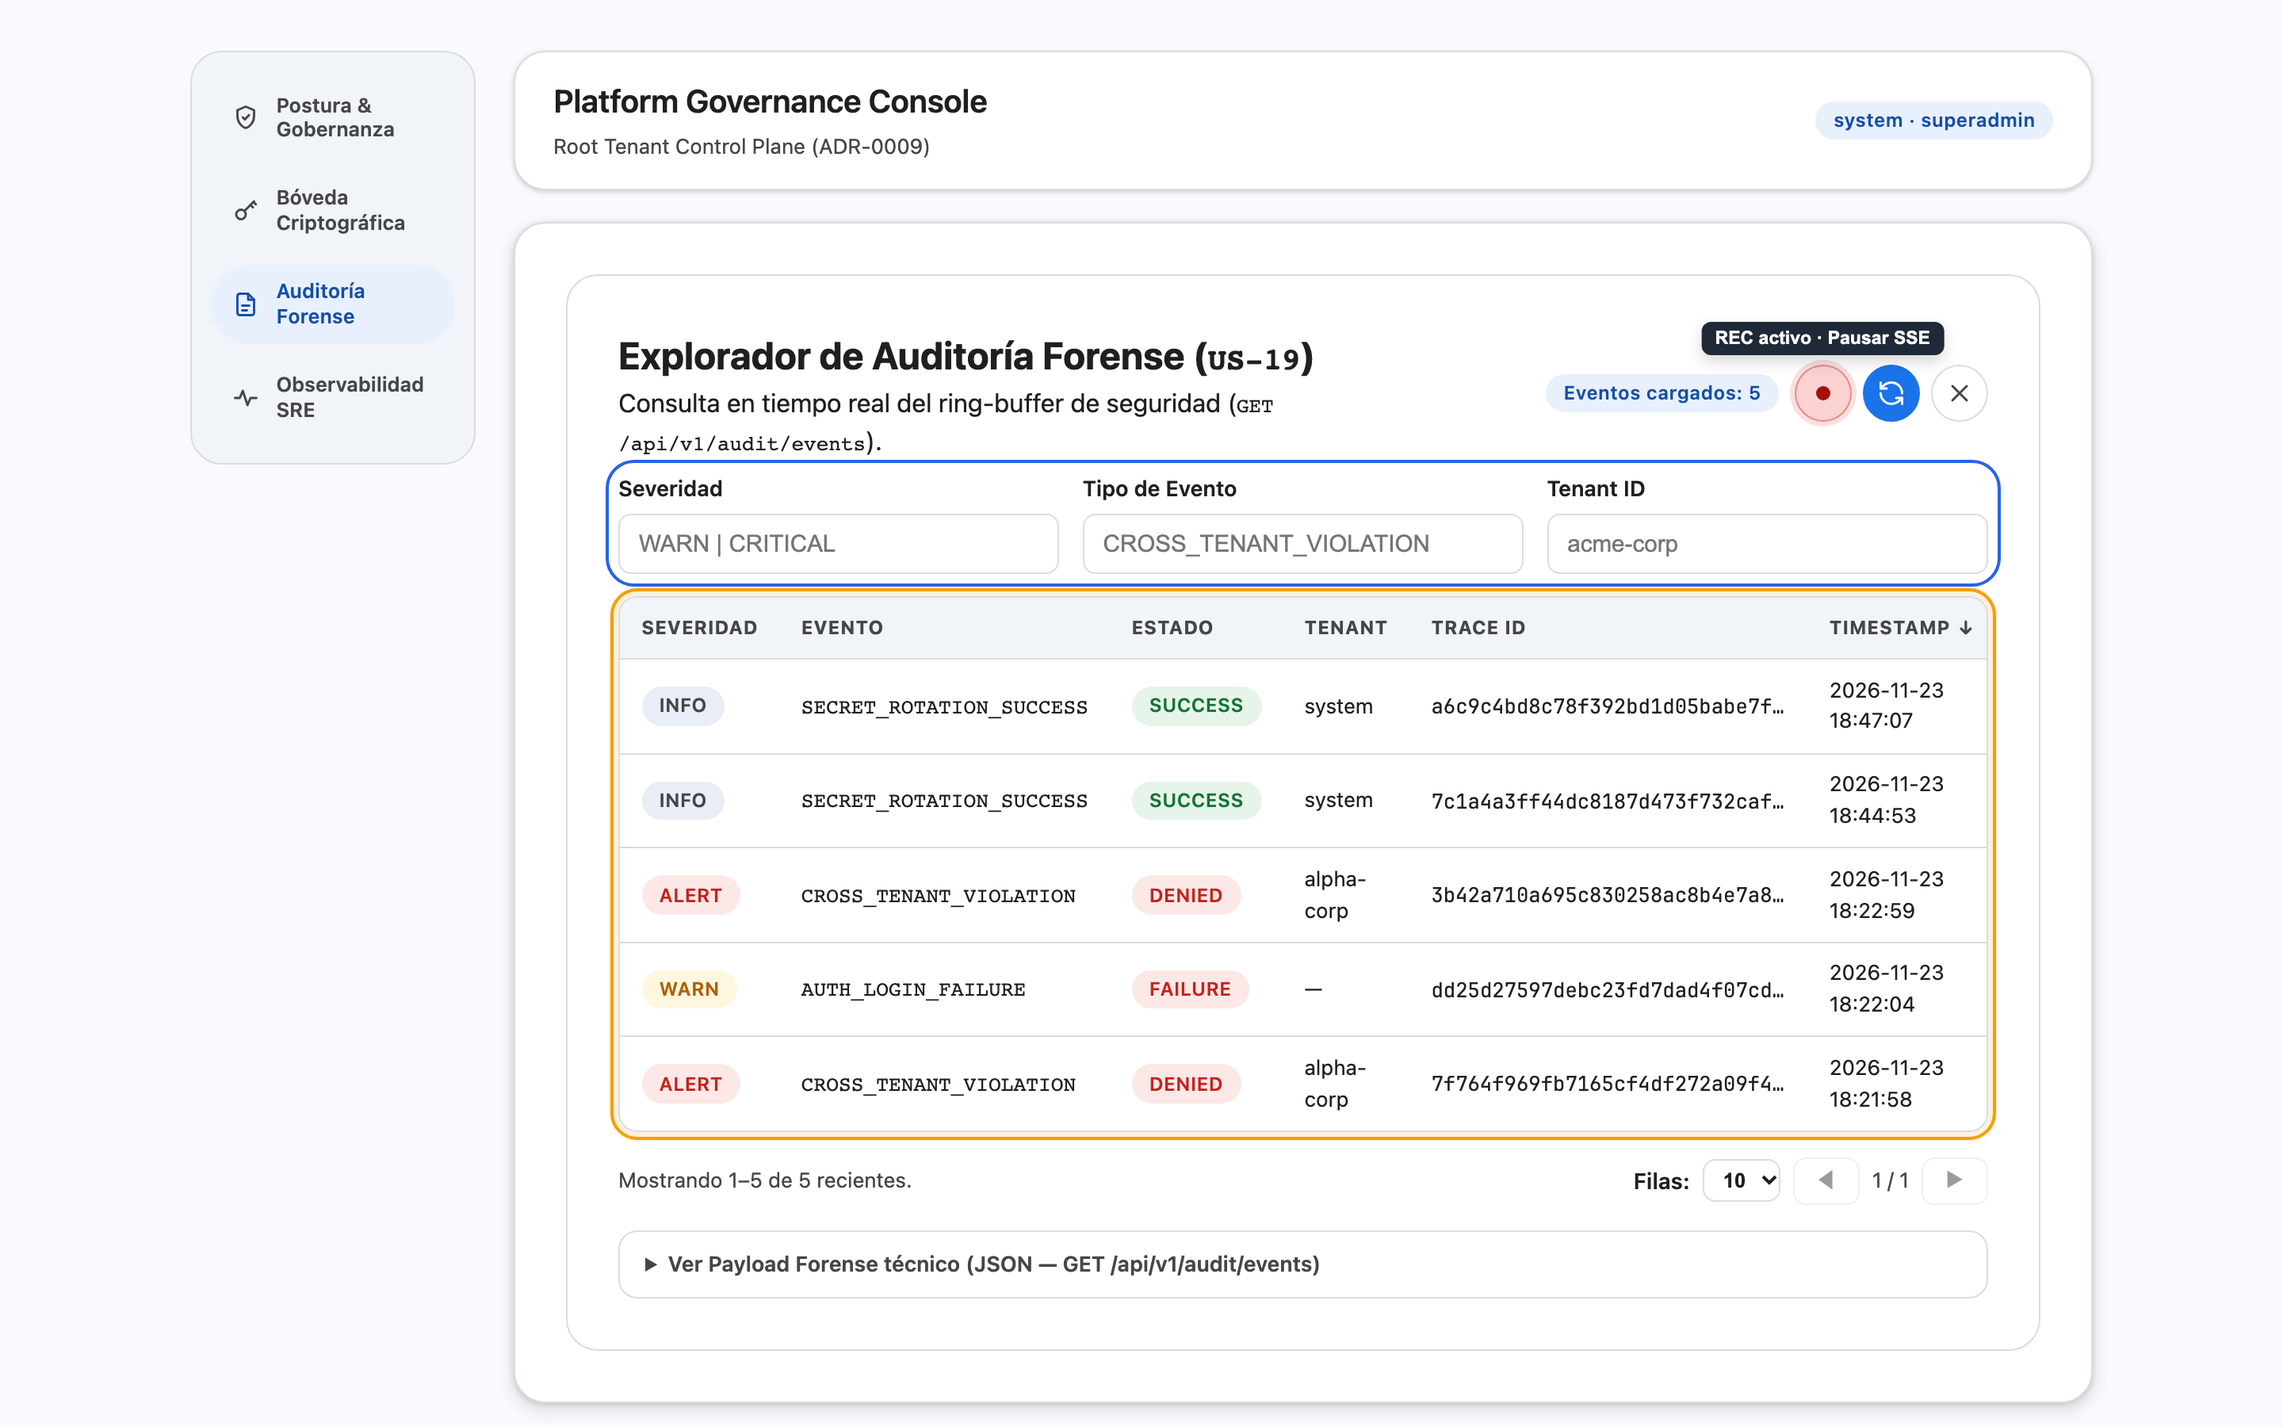
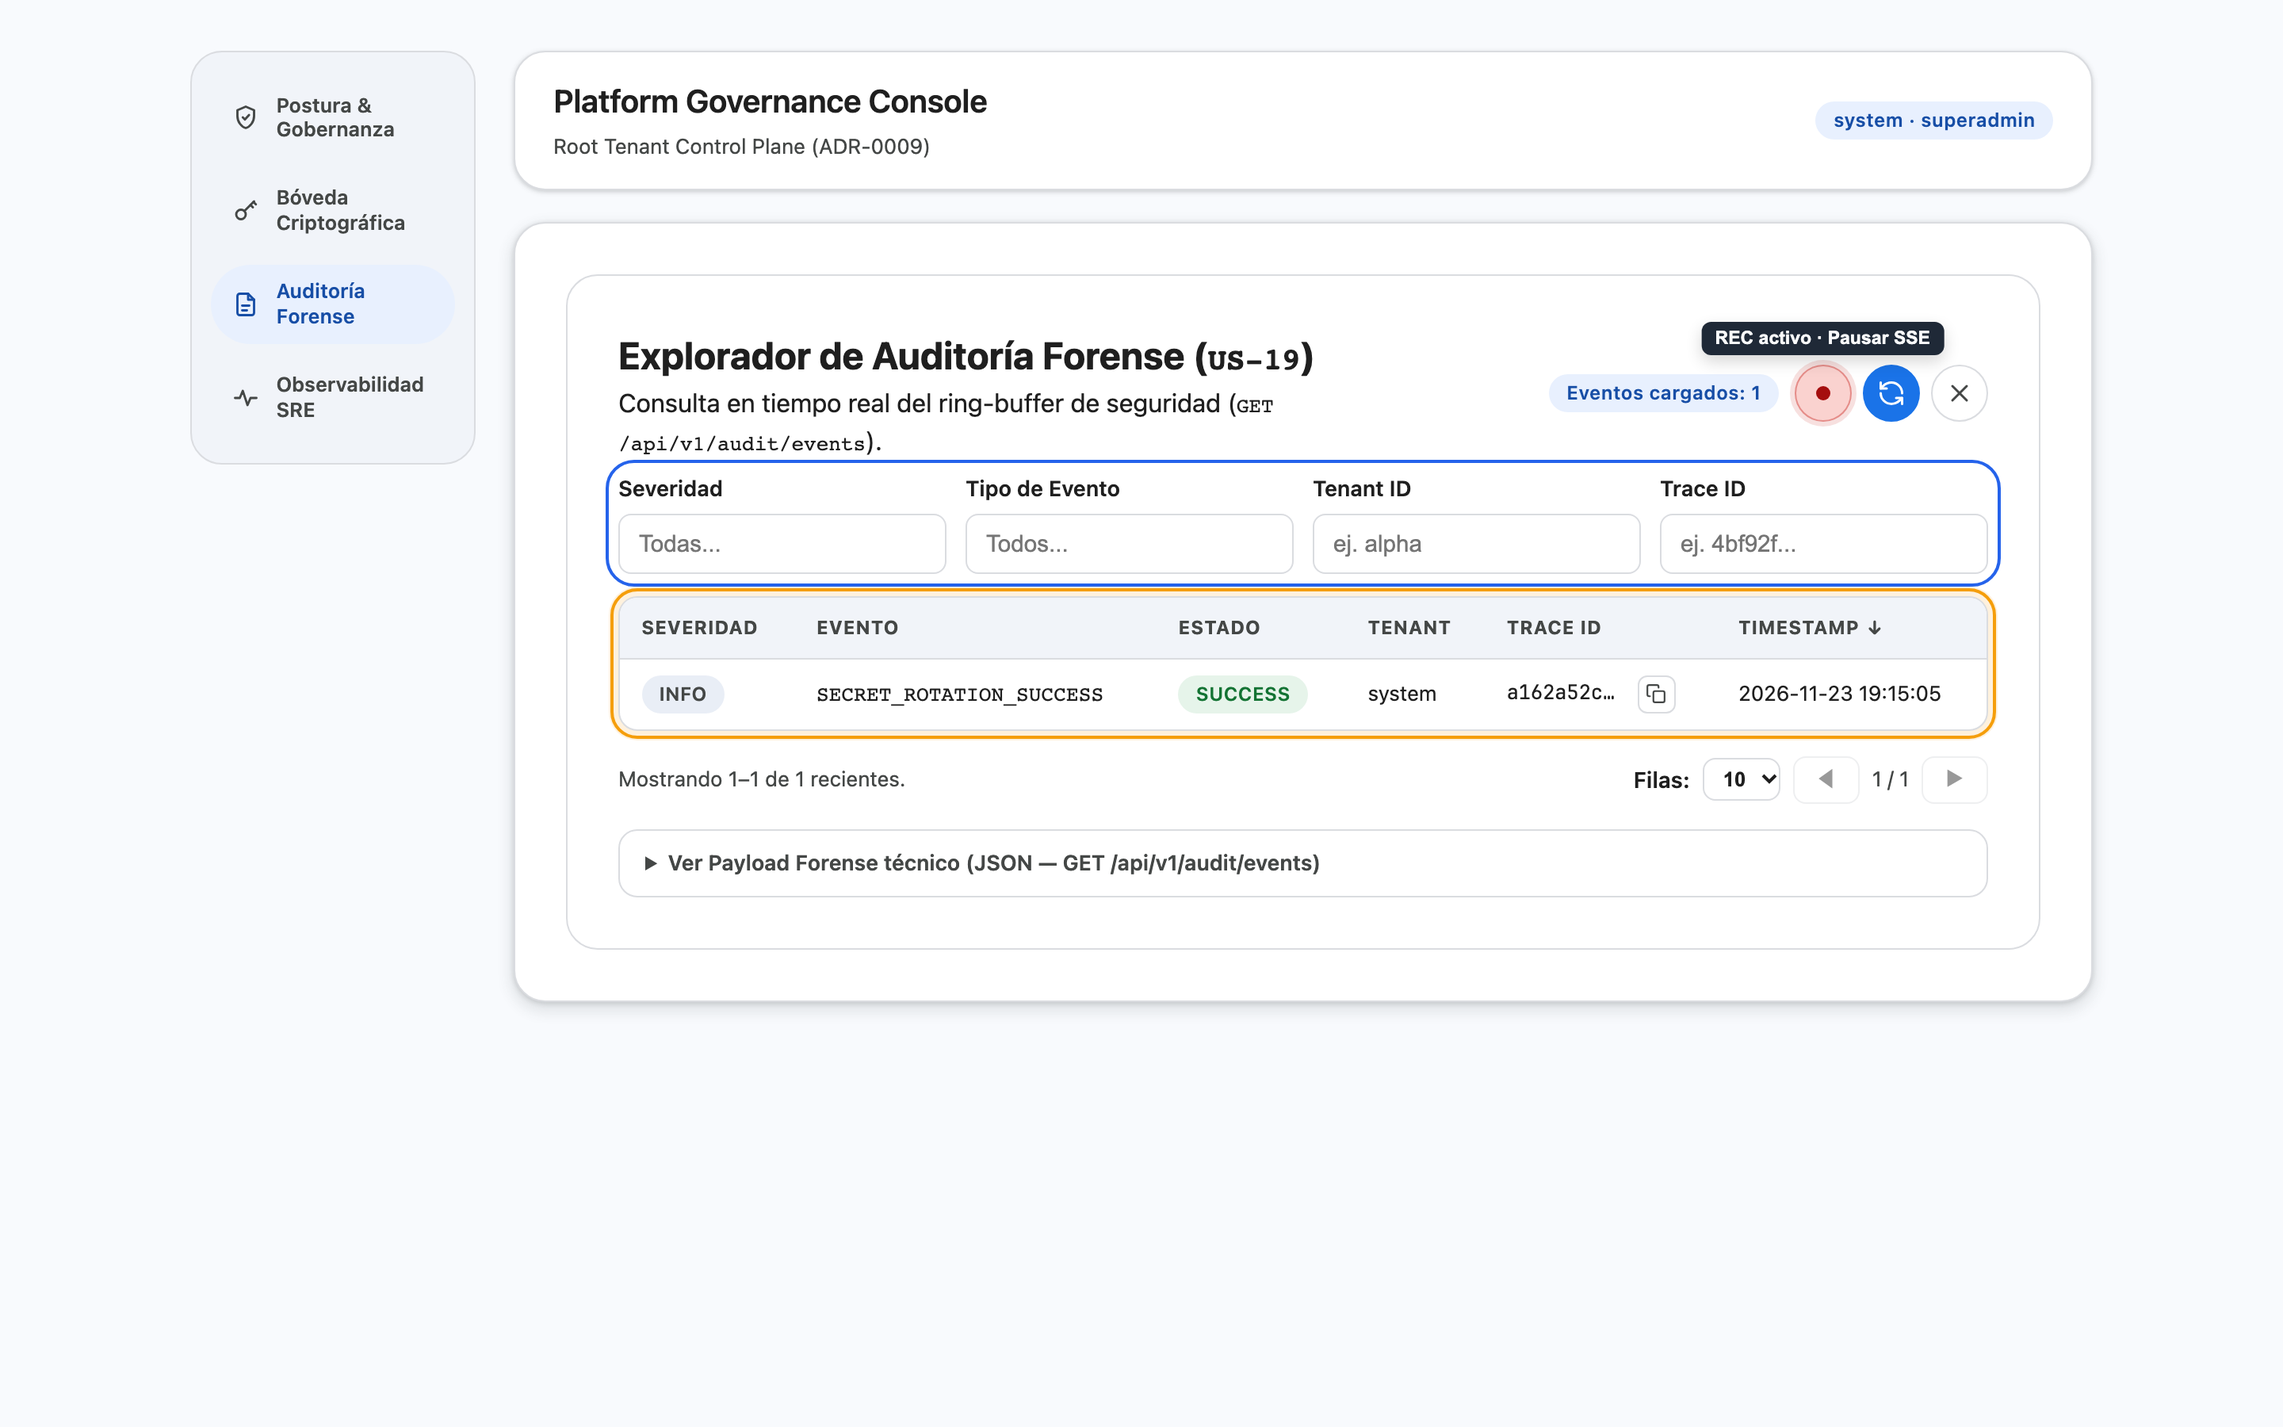
feat(audit,ui): add partial case-insensitive filters, traceId filter, autocomplete and copy button

diff --git a/interfaces/web/client/contexts/platform/ui/AuditExplorerPanel.tsx b/interfaces/web/client/contexts/platform/ui/AuditExplorerPanel.tsx
@@ -32,6 +32,23 @@ export interface AuditExplorerPanelProps {
 
 const PAGE_SIZE_OPTIONS = [5, 10, 20, 30, 50] as const;
 
+const KNOWN_SEVERITIES = ['INFO', 'WARN', 'ERROR', 'ALERT', 'CRITICAL'] as const;
+
+const KNOWN_EVENT_TYPES = [
+  'AUTH_LOGIN_SUCCESS',
+  'AUTH_LOGIN_FAILURE',
+  'TOKEN_ISSUED',
+  'TOKEN_REVOKED',
+  'REFRESH_ROTATED',
+  'CROSS_TENANT_VIOLATION',
+  'CLIENT_ORIGIN_DENIED',
+  'SECRET_ROTATION_SUCCESS',
+  'SECRET_ROTATION_FAILURE',
+  'FEDERATION_CALLBACK_PROCESSED',
+  'FEDERATION_CALLBACK_FAILED',
+  'PLATFORM_OPERATOR_CROSS_TENANT_ACTION',
+] as const;
+
 /**
  * Explorador Forense de Auditoría Estructurada (US-19 & ADR-0009).
  */
@@ -39,16 +56,19 @@ export function AuditExplorerPanel({ session }: AuditExplorerPanelProps) {
   const [severityFilter, setSeverityFilter] = useState<string>('');
   const [eventTypeFilter, setEventTypeFilter] = useState<string>('');
   const [tenantFilter, setTenantFilter] = useState<string>('');
+  const [traceIdFilter, setTraceIdFilter] = useState<string>('');
   const [debouncedFilters, setDebouncedFilters] = useState({
     severity: '',
     eventType: '',
     tenant: '',
+    traceId: '',
   });
   const [events, setEvents] = useState<readonly AuditEventRecord[]>([]);
   const [liveStream, setLiveStream] = useState<boolean>(false);
   const [sortOrder, setSortOrder] = useState<'desc' | 'asc'>('desc');
   const [pageSize, setPageSize] = useState<number>(10);
   const [currentPage, setCurrentPage] = useState<number>(1);
+  const [copiedTraceId, setCopiedTraceId] = useState<string | null>(null);
   const [error, setError] = useState<string | null>(null);
   const [loading, setLoading] = useState<boolean>(false);
   const didMountRef = useRef<boolean>(false);
@@ -57,14 +77,17 @@ export function AuditExplorerPanel({ session }: AuditExplorerPanelProps) {
     tenant?: string;
     severity?: string;
     eventType?: string;
+    traceId?: string;
   }) => {
     const t = (overrides?.tenant ?? tenantFilter).trim();
     const s = (overrides?.severity ?? severityFilter).trim();
     const et = (overrides?.eventType ?? eventTypeFilter).trim();
+    const tr = (overrides?.traceId ?? traceIdFilter).trim();
     const params = new URLSearchParams();
     if (t) params.set('tenantId', t);
     if (s) params.set('severity', s.toUpperCase());
     if (et) params.set('eventType', et.toUpperCase());
+    if (tr) params.set('traceId', tr);
     return params;
   };
 
@@ -72,6 +95,7 @@ export function AuditExplorerPanel({ session }: AuditExplorerPanelProps) {
     tenant?: string;
     severity?: string;
     eventType?: string;
+    traceId?: string;
   }): Promise<boolean> => {
     setLoading(true);
     setError(null);
@@ -108,8 +132,23 @@ export function AuditExplorerPanel({ session }: AuditExplorerPanelProps) {
     setSeverityFilter('');
     setEventTypeFilter('');
     setTenantFilter('');
-    setDebouncedFilters({ severity: '', eventType: '', tenant: '' });
-    void searchEvents({ tenant: '', severity: '', eventType: '' });
+    setTraceIdFilter('');
+    setDebouncedFilters({ severity: '', eventType: '', tenant: '', traceId: '' });
+    void searchEvents({ tenant: '', severity: '', eventType: '', traceId: '' });
+  };
+
+  const handleCopyTraceId = async (traceId: string) => {
+    try {
+      if (typeof navigator !== 'undefined' && navigator.clipboard?.writeText) {
+        await navigator.clipboard.writeText(traceId);
+      }
+      setCopiedTraceId(traceId);
+      setTimeout(() => {
+        setCopiedTraceId((curr) => (curr === traceId ? null : curr));
+      }, 1500);
+    } catch {
+      // No-op defensivo
+    }
   };
 
   // Carga inicial al montar o cambiar token
@@ -124,19 +163,17 @@ export function AuditExplorerPanel({ session }: AuditExplorerPanelProps) {
       return;
     }
     const timer = setTimeout(() => {
-      setDebouncedFilters({
+      const next = {
         severity: severityFilter,
         eventType: eventTypeFilter,
         tenant: tenantFilter,
-      });
-      void searchEvents({
-        severity: severityFilter,
-        eventType: eventTypeFilter,
-        tenant: tenantFilter,
-      });
+        traceId: traceIdFilter,
+      };
+      setDebouncedFilters(next);
+      void searchEvents(next);
     }, 350);
     return () => clearTimeout(timer);
-  }, [severityFilter, eventTypeFilter, tenantFilter]);
+  }, [severityFilter, eventTypeFilter, tenantFilter, traceIdFilter]);
 
   // Stream SSE en tiempo real (reconecta automáticamente si cambian filtros activos)
   useEffect(() => {
@@ -224,6 +261,7 @@ export function AuditExplorerPanel({ session }: AuditExplorerPanelProps) {
     debouncedFilters.severity,
     debouncedFilters.eventType,
     debouncedFilters.tenant,
+    debouncedFilters.traceId,
     session.token,
     session.tenantId,
   ]);
@@ -305,23 +343,45 @@ export function AuditExplorerPanel({ session }: AuditExplorerPanelProps) {
           <M3TextField
             id="audit-severity-filter"
             label="Severidad"
-            placeholder="WARN | CRITICAL"
+            list="audit-severity-options"
+            placeholder="Todas..."
             value={severityFilter}
             onChange={(e) => setSeverityFilter(e.target.value)}
           />
+          <datalist id="audit-severity-options">
+            {KNOWN_SEVERITIES.map((sev) => (
+              <option key={sev} value={sev} />
+            ))}
+          </datalist>
+
           <M3TextField
             id="audit-type-filter"
             label="Tipo de Evento"
-            placeholder="CROSS_TENANT_VIOLATION"
+            list="audit-event-type-options"
+            placeholder="Todos..."
             value={eventTypeFilter}
             onChange={(e) => setEventTypeFilter(e.target.value)}
           />
+          <datalist id="audit-event-type-options">
+            {KNOWN_EVENT_TYPES.map((evType) => (
+              <option key={evType} value={evType} />
+            ))}
+          </datalist>
+
           <M3TextField
             id="audit-tenant-filter"
             label="Tenant ID"
-            placeholder="acme-corp"
+            placeholder="ej. alpha"
             value={tenantFilter}
             onChange={(e) => setTenantFilter(e.target.value)}
+          />
+
+          <M3TextField
+            id="audit-trace-filter"
+            label="Trace ID"
+            placeholder="ej. 4bf92f..."
+            value={traceIdFilter}
+            onChange={(e) => setTraceIdFilter(e.target.value)}
           />
         </div>
 
@@ -387,9 +447,29 @@ export function AuditExplorerPanel({ session }: AuditExplorerPanelProps) {
                         <td>{ev.tenantId ?? '—'}</td>
                         <td>
                           {traceId ? (
-                            <code className="m3-mono-truncate" title={traceId}>
-                              {traceId}
-                            </code>
+                            <span className="m3-trace-cell">
+                              <code className="m3-trace-short" title={traceId}>
+                                {traceId}
+                              </code>
+                              <button
+                                type="button"
+                                className="m3-copy-btn"
+                                onClick={() => void handleCopyTraceId(traceId)}
+                                title={copiedTraceId === traceId ? '¡Copiado!' : 'Copiar Trace ID'}
+                                aria-label={`Copiar Trace ID ${traceId}`}
+                              >
+                                {copiedTraceId === traceId ? (
+                                  <svg viewBox="0 0 24 24" fill="none" stroke="currentColor" strokeWidth="2.4" strokeLinecap="round" strokeLinejoin="round" aria-hidden="true">
+                                    <path d="M20 6L9 17l-5-5" />
+                                  </svg>
+                                ) : (
+                                  <svg viewBox="0 0 24 24" fill="none" stroke="currentColor" strokeWidth="2" strokeLinecap="round" strokeLinejoin="round" aria-hidden="true">
+                                    <rect x="9" y="9" width="13" height="13" rx="2" ry="2" />
+                                    <path d="M5 15H4a2 2 0 0 1-2-2V4a2 2 0 0 1 2-2h9a2 2 0 0 1 2 2v1" />
+                                  </svg>
+                                )}
+                              </button>
+                            </span>
                           ) : (
                             '—'
                           )}

diff --git a/interfaces/web/client/styles.css b/interfaces/web/client/styles.css
@@ -373,8 +373,8 @@ body {
 
 .m3-grid-form {
   display: grid;
-  grid-template-columns: repeat(auto-fit, minmax(180px, 1fr));
-  gap: 0.9rem;
+  grid-template-columns: repeat(auto-fit, minmax(150px, 1fr));
+  gap: 0.75rem;
 }
 
 .m3-btn-group {
@@ -686,6 +686,50 @@ body {
 .m3-page-btn:disabled {
   opacity: 0.45;
   cursor: not-allowed;
+}
+
+.m3-trace-cell {
+  display: inline-flex;
+  align-items: center;
+  gap: 0.4rem;
+}
+
+.m3-trace-short {
+  font-family: var(--md-sys-typescale-font-mono, monospace);
+  font-size: 0.79rem;
+  max-width: 10ch;
+  overflow: hidden;
+  text-overflow: ellipsis;
+  white-space: nowrap;
+  display: inline-block;
+}
+
+.m3-copy-btn {
+  position: relative;
+  width: 24px;
+  height: 24px;
+  padding: 0;
+  display: inline-flex;
+  align-items: center;
+  justify-content: center;
+  border-radius: 6px;
+  border: 1px solid var(--border);
+  background: var(--surface);
+  color: var(--text-muted);
+  cursor: pointer;
+  flex-shrink: 0;
+  transition: background-color 0.15s ease, color 0.15s ease;
+}
+
+.m3-copy-btn:hover {
+  background: var(--md-sys-color-primary-container, #e8f0fe);
+  color: var(--primary);
+}
+
+.m3-copy-btn svg {
+  width: 13px;
+  height: 13px;
+  display: block;
 }
 
 .m3-workspace-topbar {

diff --git a/interfaces/http/rest/v1/audit/audit_controller.ts b/interfaces/http/rest/v1/audit/audit_controller.ts
@@ -51,6 +51,11 @@ export class AuditController {
         ? req.query.eventType.trim().toUpperCase()
         : undefined;
 
+    const traceId =
+      typeof req.query.traceId === 'string' && req.query.traceId.trim().length > 0
+        ? req.query.traceId.trim()
+        : undefined;
+
     const rawLimit = typeof req.query.limit === 'string' ? parseInt(req.query.limit, 10) : 50;
     const limit = Number.isFinite(rawLimit) ? Math.min(200, Math.max(1, rawLimit)) : 50;
 
@@ -58,6 +63,7 @@ export class AuditController {
       tenantId,
       severity: rawSeverity as SecurityAuditSeverity | undefined,
       eventType,
+      traceId,
       limit,
     };
   }
@@ -111,6 +117,7 @@ export class AuditController {
           ...(filters.tenantId ? { tenantId: filters.tenantId } : {}),
           ...(filters.severity ? { severity: filters.severity } : {}),
           ...(filters.eventType ? { eventType: filters.eventType } : {}),
+          ...(filters.traceId ? { traceId: filters.traceId } : {}),
           limit: filters.limit,
         },
         events,

diff --git a/src/contexts/identity/infrastructure/logging/console_security_audit_logger.ts b/src/contexts/identity/infrastructure/logging/console_security_audit_logger.ts
@@ -17,13 +17,15 @@ export function matchesAuditFilters(
   event: CanonicalSecurityAuditEvent,
   filters?: SecurityAuditQueryFilters
 ): boolean {
-  const tenantFilter = filters?.tenantId?.trim();
+  const tenantFilter = filters?.tenantId?.trim().toLowerCase();
   const severityFilter = filters?.severity?.trim().toUpperCase();
   const eventTypeFilter = filters?.eventType?.trim().toUpperCase();
+  const traceFilter = filters?.traceId?.trim().toLowerCase();
 
-  if (tenantFilter && event.tenantId !== tenantFilter) return false;
+  if (tenantFilter && !(event.tenantId ?? '').toLowerCase().includes(tenantFilter)) return false;
   if (severityFilter && event.severity.toUpperCase() !== severityFilter) return false;
-  if (eventTypeFilter && event.eventType.toUpperCase() !== eventTypeFilter) return false;
+  if (eventTypeFilter && !event.eventType.toUpperCase().includes(eventTypeFilter)) return false;
+  if (traceFilter && !(event.trace?.traceId ?? '').toLowerCase().includes(traceFilter)) return false;
   return true;
 }
 

diff --git a/src/contexts/identity/application/ports/security/audit_logger.ts b/src/contexts/identity/application/ports/security/audit_logger.ts
@@ -104,6 +104,7 @@ export interface SecurityAuditQueryFilters {
   readonly tenantId?: string;
   readonly severity?: SecurityAuditSeverity;
   readonly eventType?: string;
+  readonly traceId?: string;
   readonly limit?: number;
 }
 

diff --git a/docs/showcase/07-fintech-compliance.md b/docs/showcase/07-fintech-compliance.md
@@ -1340,8 +1340,8 @@ Si un usuario comercial (`alpha-corp`) intenta consultar el stream de auditoría
 2. **Caso Positivo (Explorador Forense `GET /api/v1/audit/events` & Stream en Vivo `GET /api/v1/audit/stream`):**
    - Abre [`http://localhost:3000/platform`](http://localhost:3000/platform) y selecciona **`Auditoría Forense`** en la barra lateral izquierda.
    - Usa la barra superior de íconos con tooltips: **`REC` (`●`)** para activar/pausar el stream SSE en tiempo real, **`↻`** para sincronizar/buscar eventos y **`✕`** para limpiar filtros.
-   - Escribe en los filtros reactivos contiguos (**`Severidad`**, **`Tipo de Evento`**, **`Tenant ID`**): se aplican automáticamente (reconectando el stream SSE si **`REC`** está activo).
-   - Verifica el chip `Eventos cargados: N`, ordena por **`TIMESTAMP ↓ / ↑`**, ajusta el selector **`Filas` (`5`, `10`, `20`, `30`, `50`)** con paginación al pie de la tabla y opcionalmente despliega **Ver Payload Forense técnico (JSON)**.
+   - Escribe o elige en los filtros reactivos contiguos (**`Severidad`** y **`Tipo de Evento`** con autocompletado, **`Tenant ID`** y **`Trace ID`** con coincidencia parcial insensible a mayúsculas/minúsculas): se aplican automáticamente (reconectando el stream SSE si **`REC`** está activo).
+   - Verifica el chip `Eventos cargados: N`, copia el `Trace ID` resumido desde su botón derecho, ordena por **`TIMESTAMP ↓ / ↑`**, ajusta el selector **`Filas` (`5`, `10`, `20`, `30`, `50`)** con paginación al pie de la tabla y opcionalmente despliega **Ver Payload Forense técnico (JSON)**.
 
    ![Consola /platform Auditoría Forense — Filtros y Tabla Compacta (US-19)](./assets/screenshots/us19_audit_explorer_filtered.png)
 
